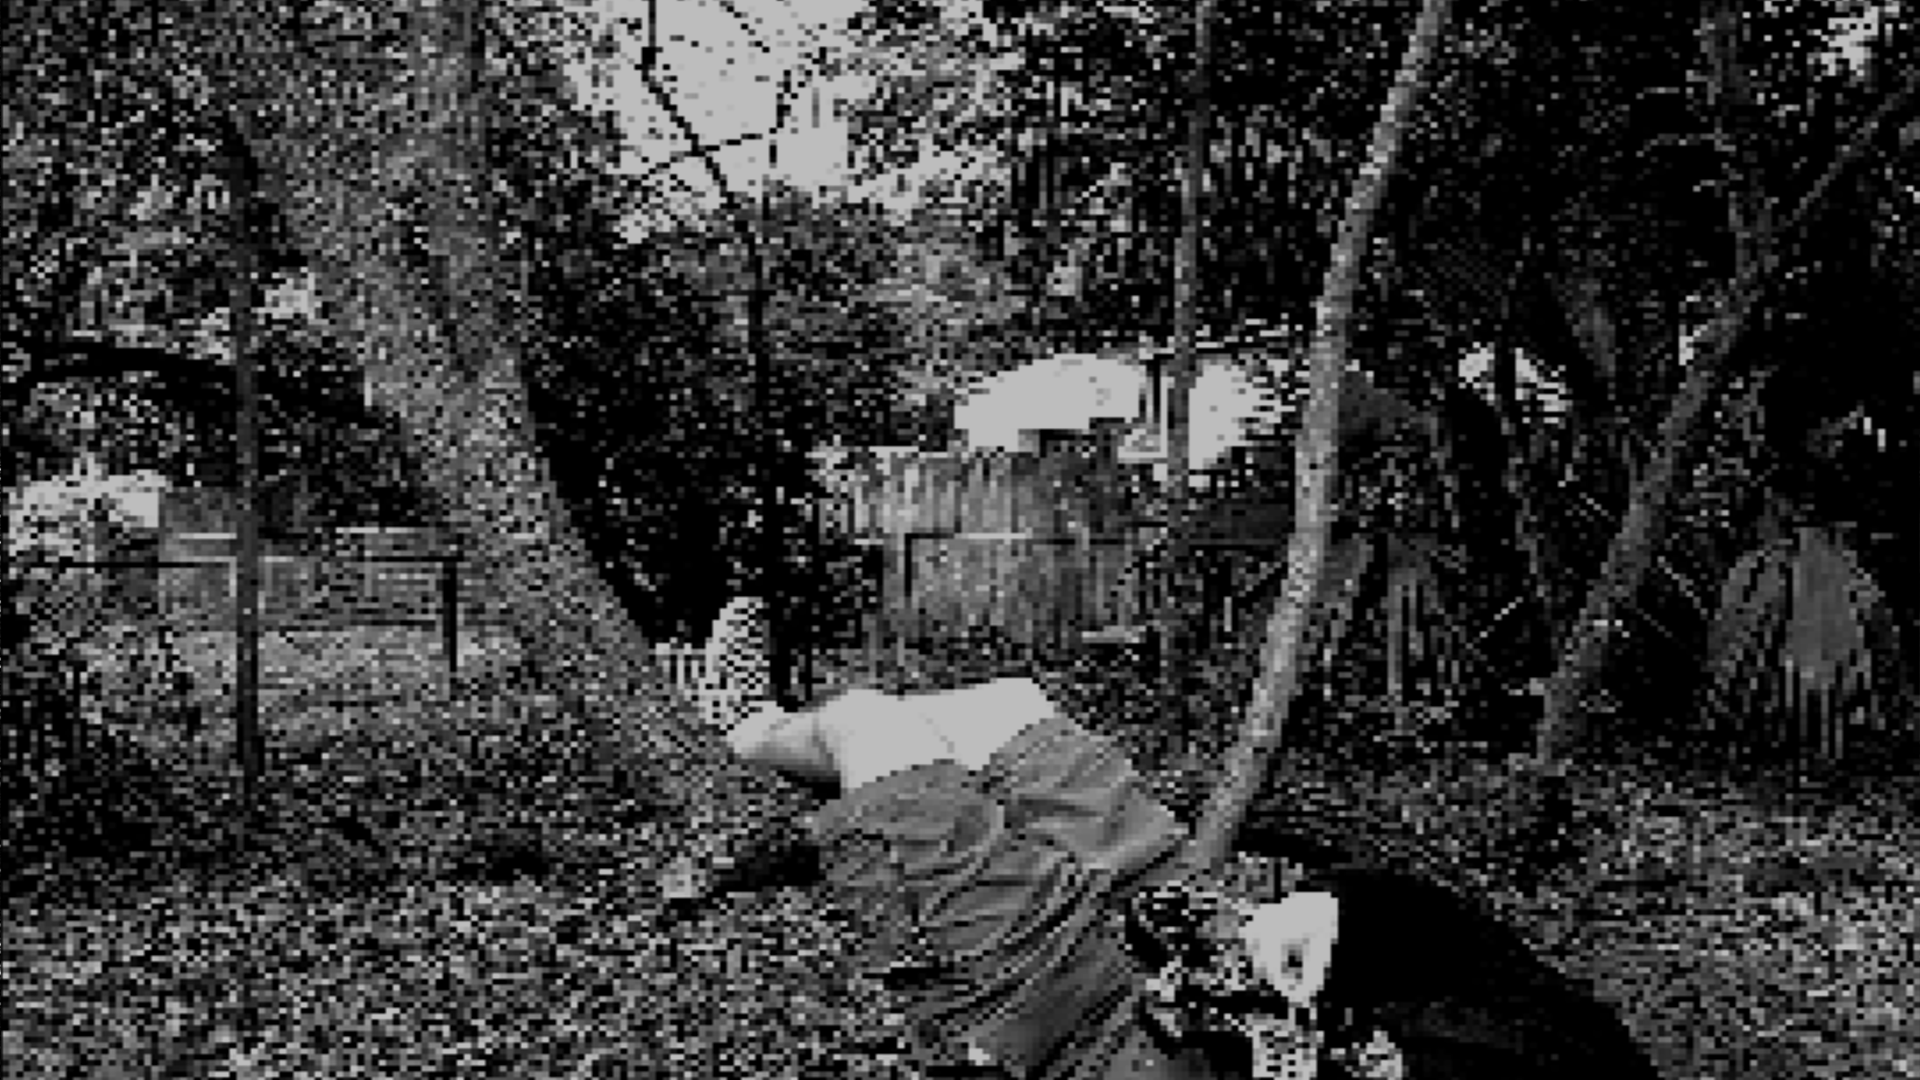
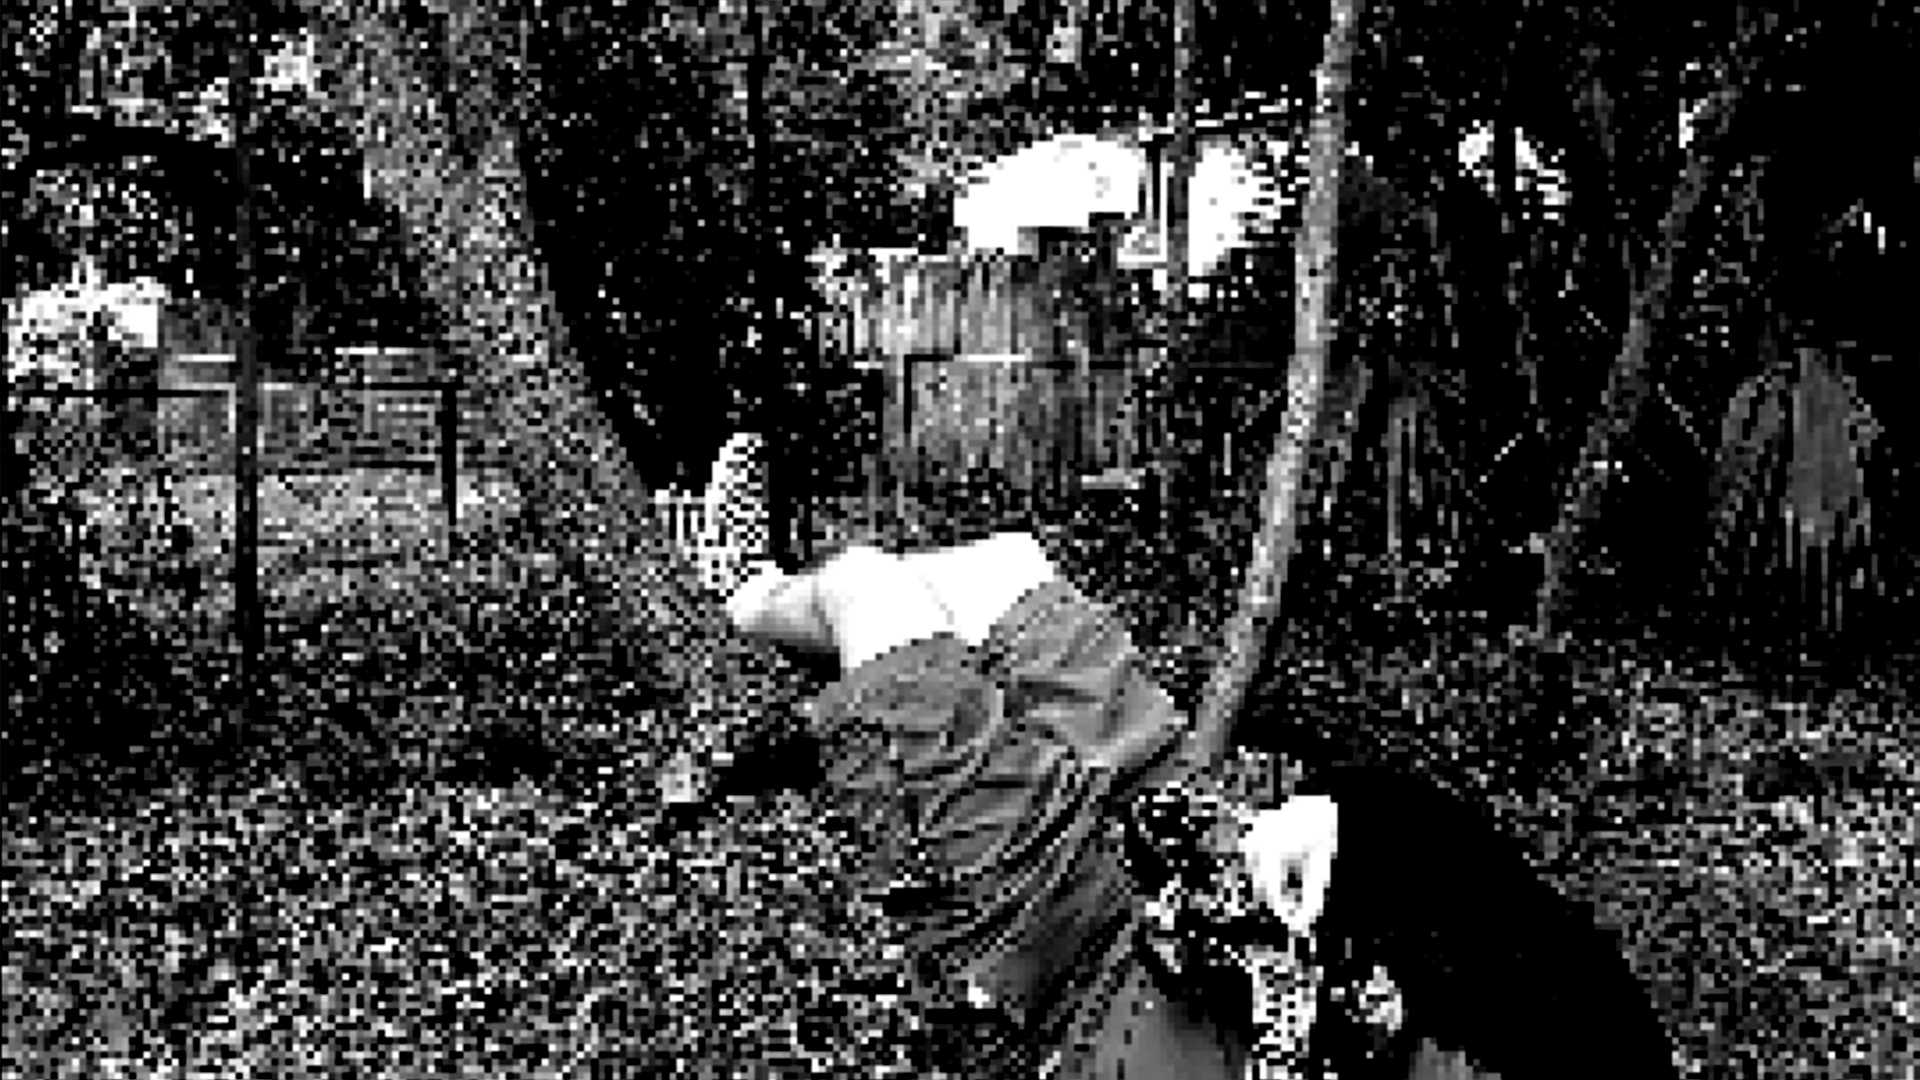
image update

diff --git a/index.html b/index.html
@@ -110,22 +110,22 @@
 		
 		const slides = [
 			{
-				src: "images/Storyboard_Image_Cover.png",
+				src: "Images/Storyboard_Image_Cover.png",
 				href: "blu_cel.html",
 				label: "BLU CEL"
 			},
 			{
-				src: "images/color analysis.png",
+				src: "Images/color analysis.png",
 				href: "spectra phase.html",
 				label: "SPECTRA PHASE"
 			},
 			{
-				src: "images/senticlense_cover.png",
+				src: "Images/senticlense_cover.png",
 				href: "senticlense.html",
 				label: "SENTICLENSE"
 			},
 			{
-				src: "images/Agents_Cover.png",
+				src: "Images/Agents_Cover.png",
 				href: "aoi.html",
 				label: "AGENTS OF INFLUENCE"
 			}
